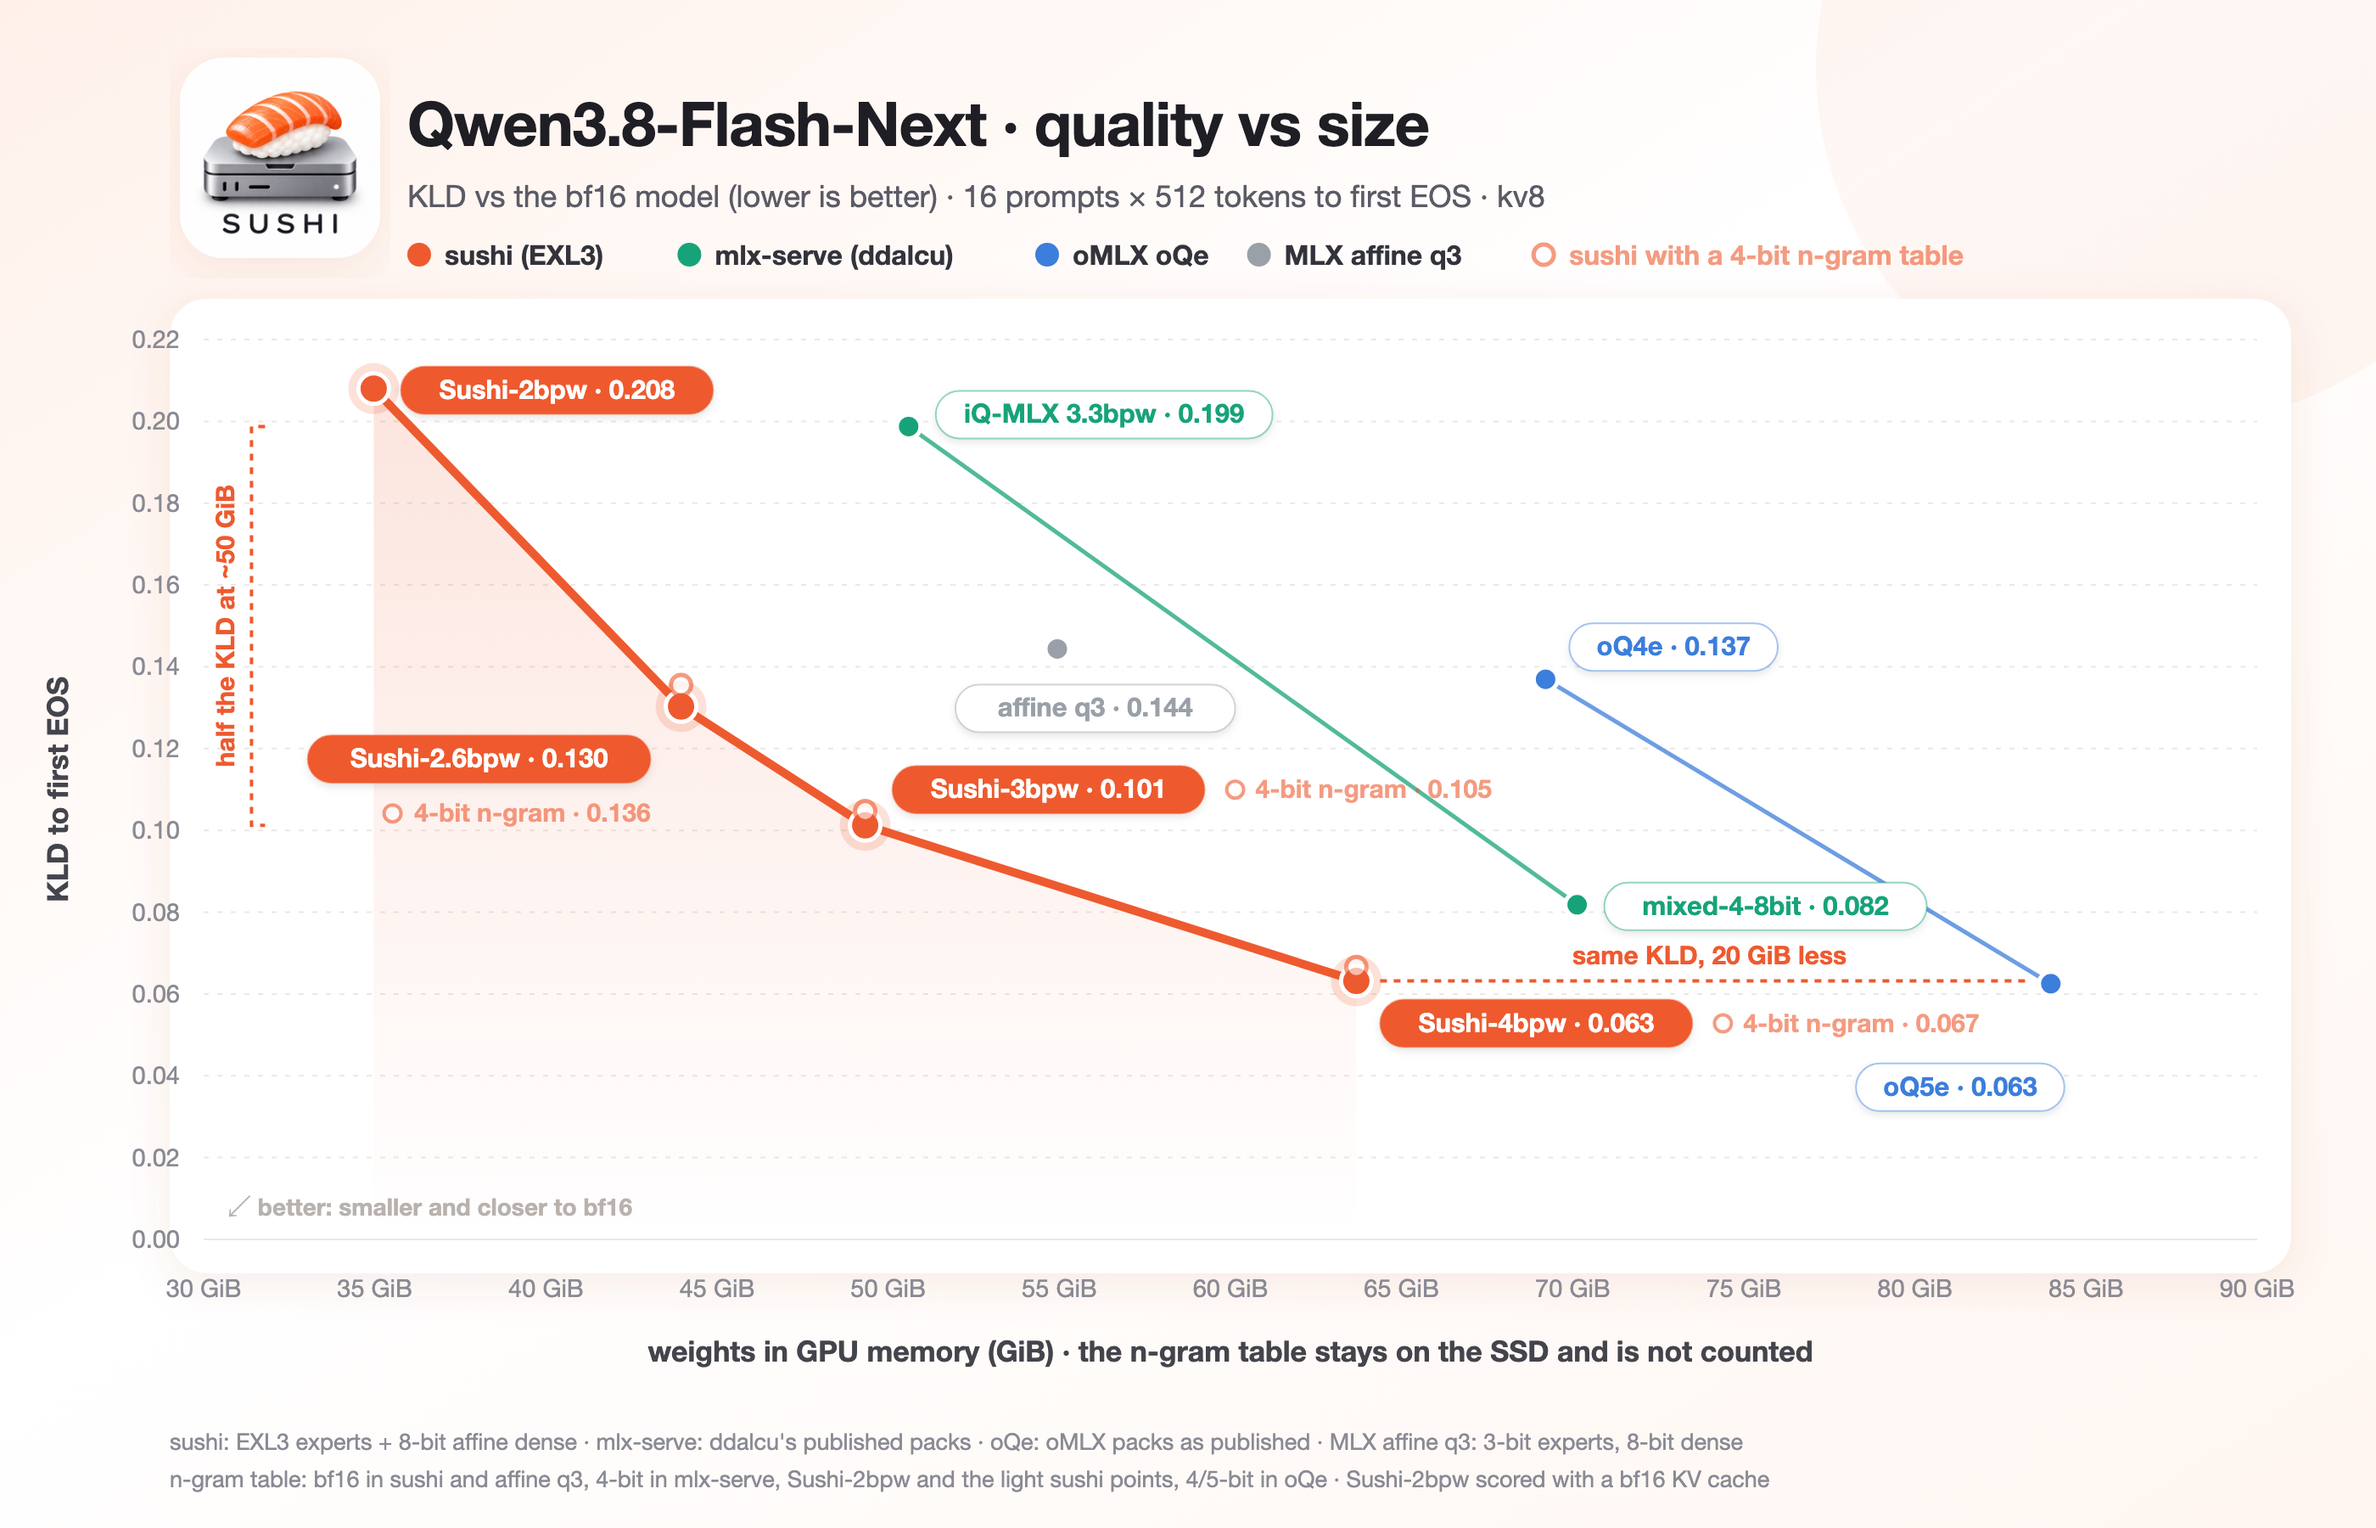
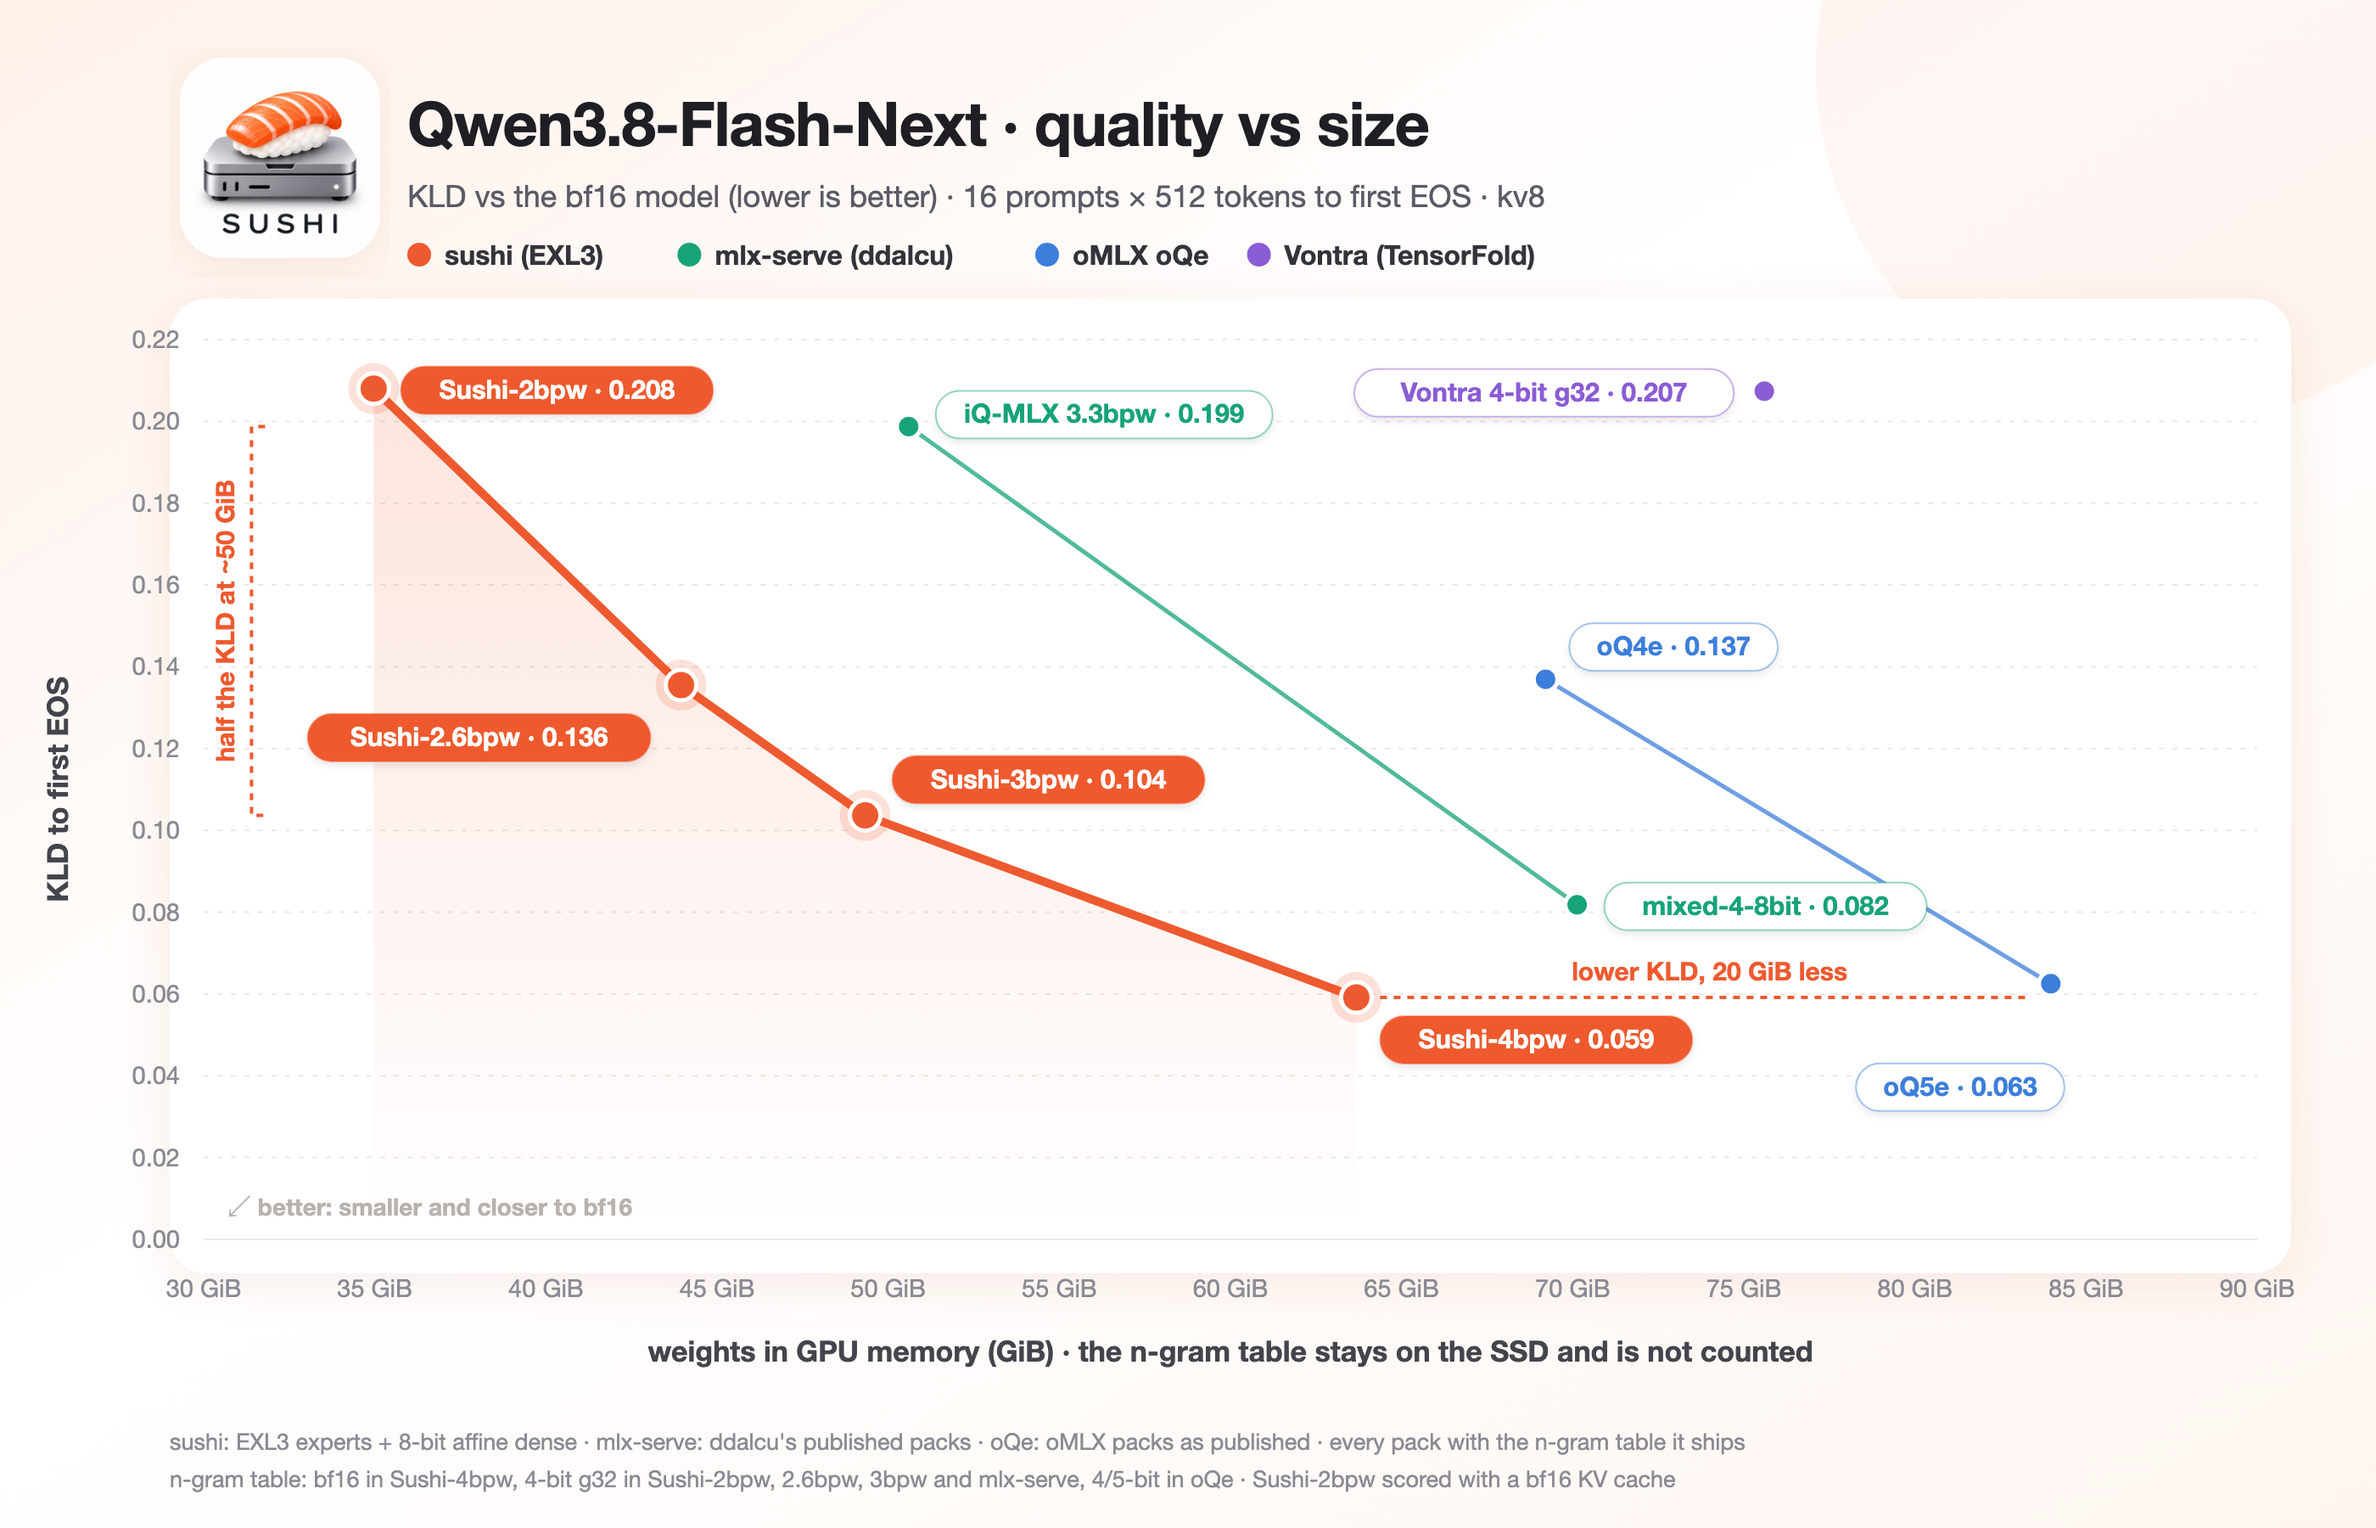
Chart and record the republished Sushi-3bpw and Sushi-4bpw
The README chart plots every pack with the n-gram table it ships (bf16 for Sushi-4bpw, 4-bit
for the rest), drops the affine q3 point and the 4-bit rings, and adds Vontra 4-bit g32.
docs/quality-kld.md records the new Hugging Face weights: Sushi-4bpw 0.0592 (bf16 table) and
0.0654 (4-bit), Sushi-3bpw 0.1036 (4-bit) and 0.1006 (bf16), all on binary 942134d, 16x512
raw fixture, kv8, ctx 8192, top-k 10.

diff --git a/docs/quality-kld.md b/docs/quality-kld.md
@@ -81,8 +81,10 @@ that shares no code with ours.
 | pack | KLD | top-1 | cosine loss | all positions |
 |---|---|---|---|---|
 | mlx-serve mixed-4-8bit (affine 4-bit gs64 / 8-bit; the control) | 0.0818 | 91.39% | 2.63% | 0.0752 |
-| Sushi-3bpw (MCG K3 w15; binary 7ed9795) | 0.1012 | 90.26% | 3.14% | 0.0931 |
-| Sushi-4bpw (MCG K4 w15; binary 30a27ba) | 0.0632 | 92.99% | 2.25% | 0.0588 |
+| Sushi-3bpw, first release (MCG K3 w15, bf16 table; binary 7ed9795) | 0.1012 | 90.26% | 3.14% | 0.0931 |
+| Sushi-4bpw, first release (MCG K4 w15, bf16 table; binary 30a27ba) | 0.0632 | 92.99% | 2.25% | 0.0588 |
+| Sushi-3bpw, published 2026-09-29 (MCG K3 w14, 4-bit g32 table; binary 942134d) | 0.1036 | 90.31% | 3.11% | 0.0941 |
+| Sushi-4bpw, published 2026-09-29 (MCG K4 w15, bf16 table; binary 942134d) | 0.0592 | 92.89% | 2.18% | 0.0554 |
 
 The control row ran on binaries a05d15f / 28d7fab (the KLD tool is unchanged between them). Sushi-4bpw reads below it.
 
@@ -99,9 +101,12 @@ n-gram table. Sizes are GiB of the weight files the engine loads (the Sushi pack
 | mlx-serve mixed-4-8bit (ddalcu; the control above) | 70.13 | 0.0818 | 91.39% |
 | oMLX oQ4e (Jundot) | 69.21 | 0.1370 | 88.87% |
 | affine q3 | 54.94 | 0.1444 | 88.05% |
+| Vontra 4-bit g32 (TensorFold), as published | 75.60 | 0.2074 | 85.01% |
 | mlx-serve iQ-MLX 3.3bpw (ddalcu; imatrix-weighted affine) | 50.60 | 0.1987 | 86.28% |
-| Sushi-3bpw with mixed-4-8bit's 4-bit g32 n-gram table (the published Sushi-3bpw) | 49.33 | 0.1047 | 90.34% |
-| Sushi-4bpw with the same 4-bit g32 table | 63.68 | 0.0666 | 92.35% |
+| Sushi-3bpw first release with mixed-4-8bit's 4-bit g32 n-gram table (as first published) | 49.33 | 0.1047 | 90.34% |
+| Sushi-4bpw first release with the same 4-bit g32 table | 63.68 | 0.0666 | 92.35% |
+| Sushi-3bpw published 2026-09-29 with the bf16 table (binary 942134d) | 49.33 | 0.1006 | 90.80% |
+| Sushi-4bpw published 2026-09-29 with the 4-bit g32 table (binary 942134d) | 63.68 | 0.0654 | 92.72% |
 | Sushi-2.6bpw (binary ad5e6be8, 2026-09-27; Sushi-3bpw's 0.10123 and 0.1047 reproduce on it bit for bit) | 43.95 | 0.1303 | 89.33% |
 | Sushi-2.6bpw with the 4-bit g32 table (the published Sushi-2.6bpw) | 43.95 | 0.1355 | 89.08% |
 | Sushi-2bpw with the 4-bit g32 table (the published Sushi-2bpw; bf16 KV, see below) | 34.97 | 0.2080 | 85.94% |
@@ -124,6 +129,11 @@ Sushi-2bpw row: sushi v1.0.4 ReleaseFast, binary SHA-256
[1 lines of base64/hex data omitted]
 `mlx-serve-bf16-16x512-raw`, `--kv-quant off` (bf16 KV, unlike every other row), no MTP, 7186 positions to first EOS:
 KLD 0.208021, top-1 85.94%, NLL 0.539001; all positions 0.189374 / 87.30% / 0.484980. M5 Max 128 GB, 2026-09-28.
+
+Rows published 2026-09-29: binary built from `942134d`, ReleaseFast SHA-256
[1 lines of base64/hex data omitted]
+`mlx-serve-bf16-16x512-raw`, kv8, `--tokens 512 --top-k 10 --ctx-size 8192`, no MTP, 7186 positions to first EOS.
+M5 Max 128 GB, `taskpolicy -a`, GPU lock per run, 2026-09-29.
 
 
 <a id="kv-width"></a>

diff --git a/README.md b/README.md
@@ -150,10 +150,9 @@ through environment variables. `--print` writes the config and prints the launch
 
 <p align="center"><img src="docs/assets/kld-chart.png" alt="KLD vs size" width="100%"></p>
 
-KLD against the bf16 model: 16 prompts x 512 tokens scored to the first EOS, kv8, every pack run by the same sushi
-build except Sushi-2bpw (sushi v1.0.4, bf16 KV cache). The light rings are the sushi packs with a 4-bit n-gram table
-(Sushi-2bpw, Sushi-2.6bpw and Sushi-3bpw ship that table, and Sushi-2bpw is plotted with it; either table works with
-any pack). Numbers: [docs/quality-kld.md](docs/quality-kld.md).
+KLD against the bf16 model: 16 prompts x 512 tokens scored to the first EOS, kv8, every pack scored by sushi (Sushi-2bpw
+with a bf16 KV cache). Each pack is plotted with the n-gram table it ships: bf16 in Sushi-4bpw, 4-bit in Sushi-2bpw,
+Sushi-2.6bpw and Sushi-3bpw; either table works with any pack. Numbers: [docs/quality-kld.md](docs/quality-kld.md).
 
 ## Speed
 

diff --git a/CHANGELOG.md b/CHANGELOG.md
@@ -6,6 +6,8 @@ earlier history is mlx-serve's, in that project's changelog.
 
 ## Unreleased
 
+- Sushi-3bpw and Sushi-4bpw ship new expert weights on Hugging Face: Sushi-4bpw KLD 0.0632 -> 0.0592, Sushi-3bpw 0.1047 -> 0.1036 (each with the n-gram table it ships).
+
 - `/metrics.json` `sessions` also lists each hot-cache conversation no live request holds as a `cached` row, and `/props` reports `memory.kv_cache_bytes` including live requests (mlx-serve 4e00f2af and eca42620 (#590), thanks @ddalcu; builds on #13, thanks @yoyo930021).
 
 - **Per-request live sessions on `/metrics.json`**: every in-flight request publishes its phase, context tokens
